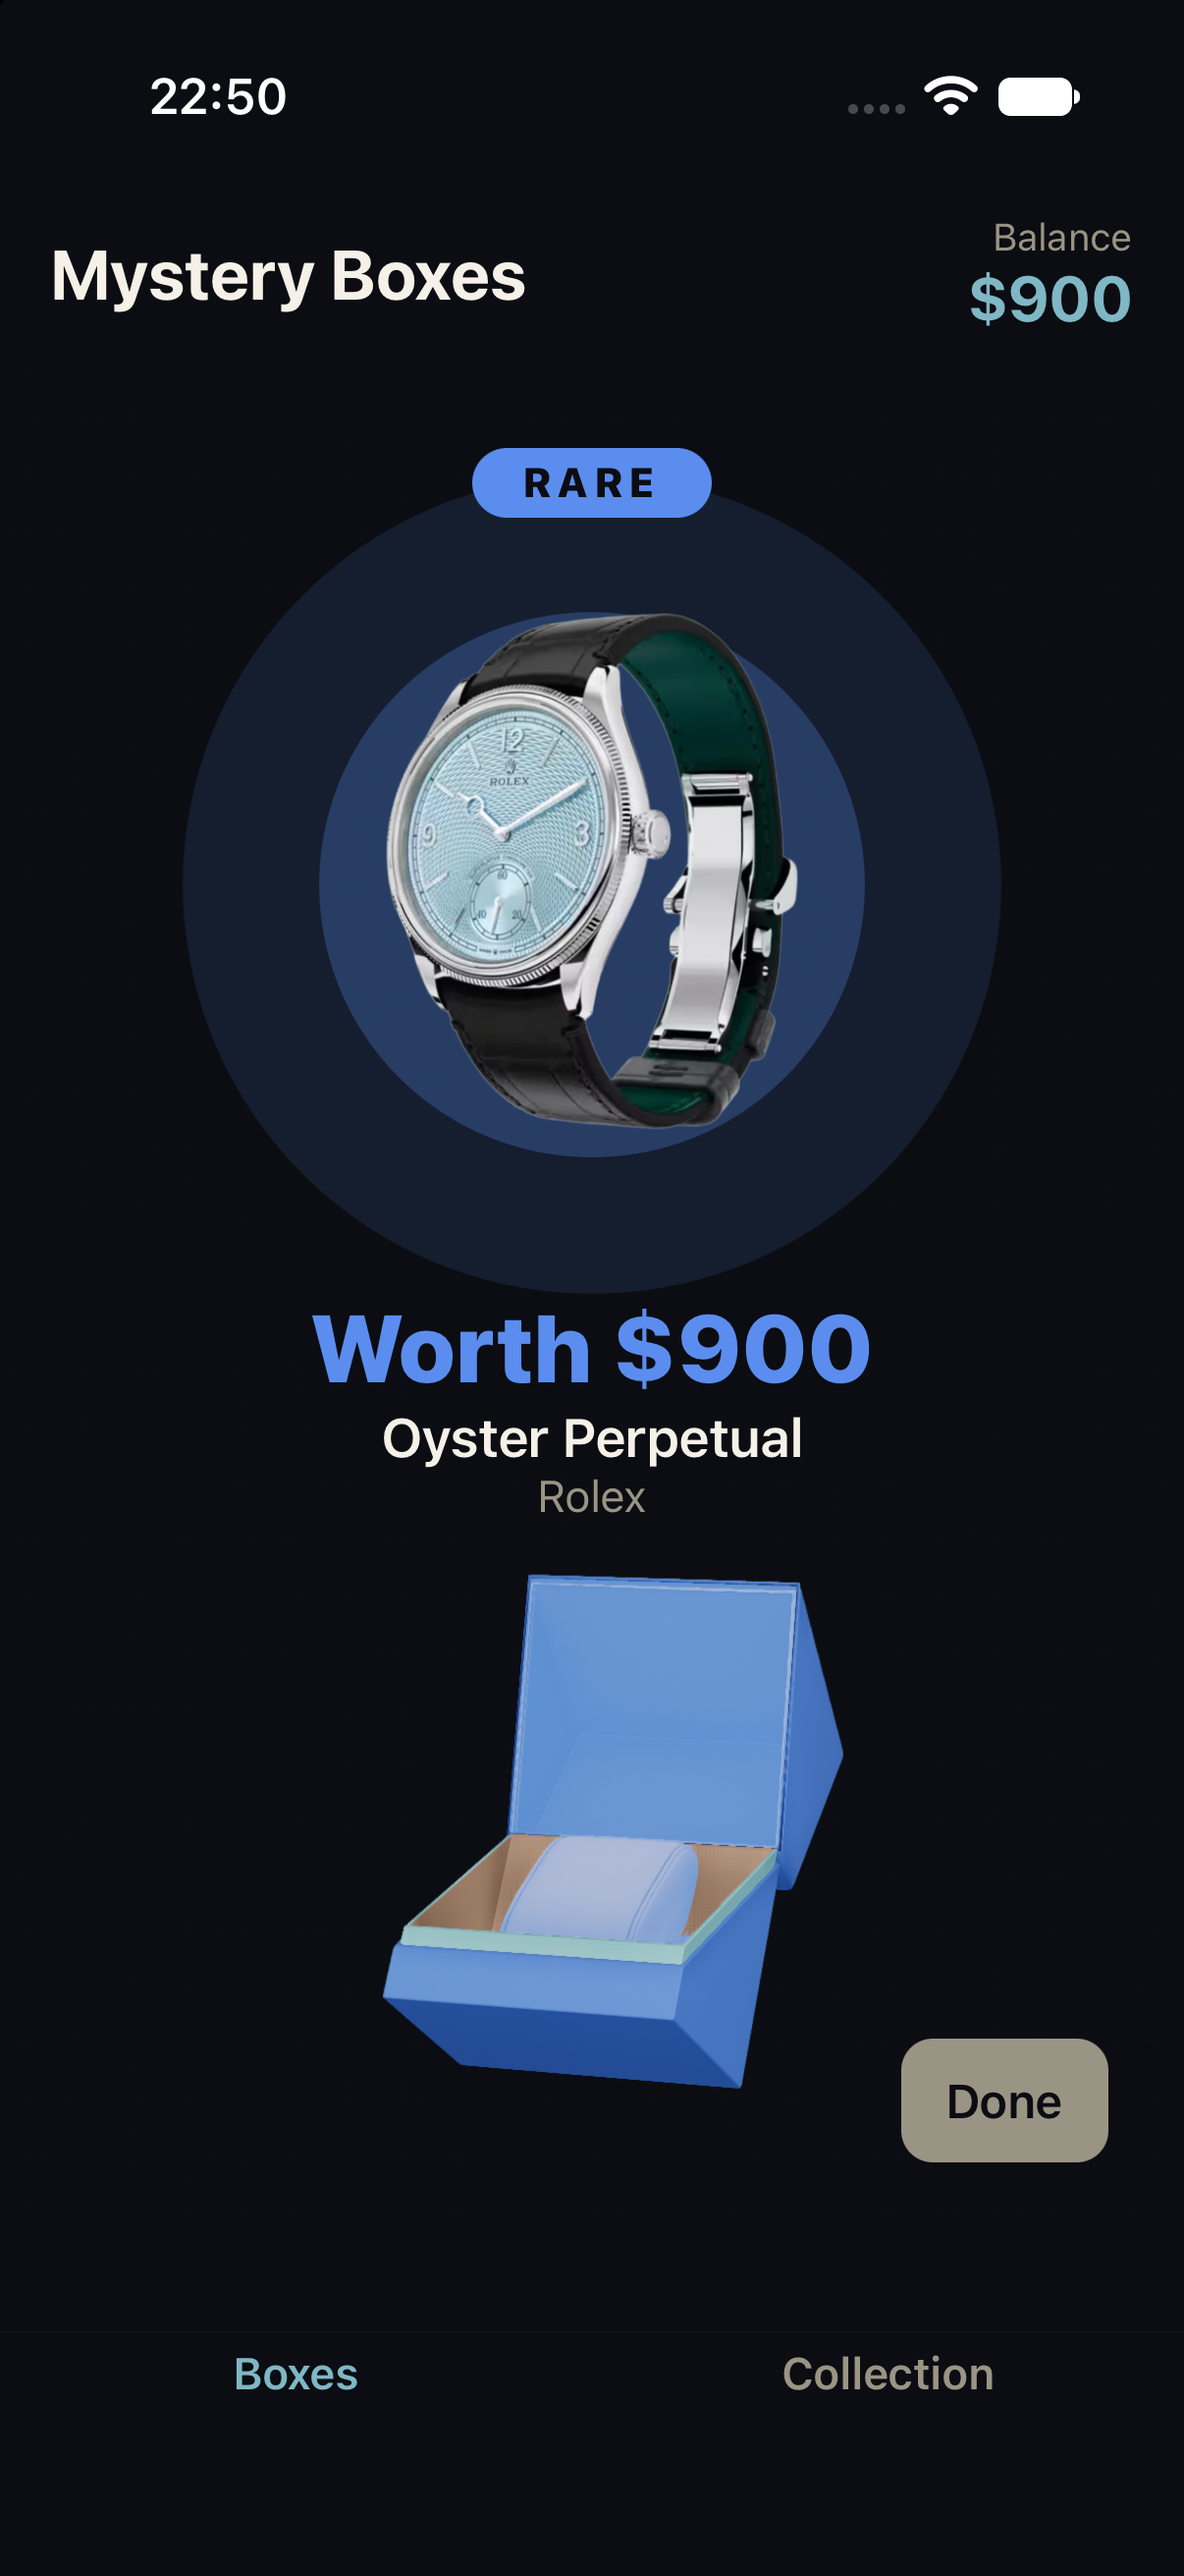
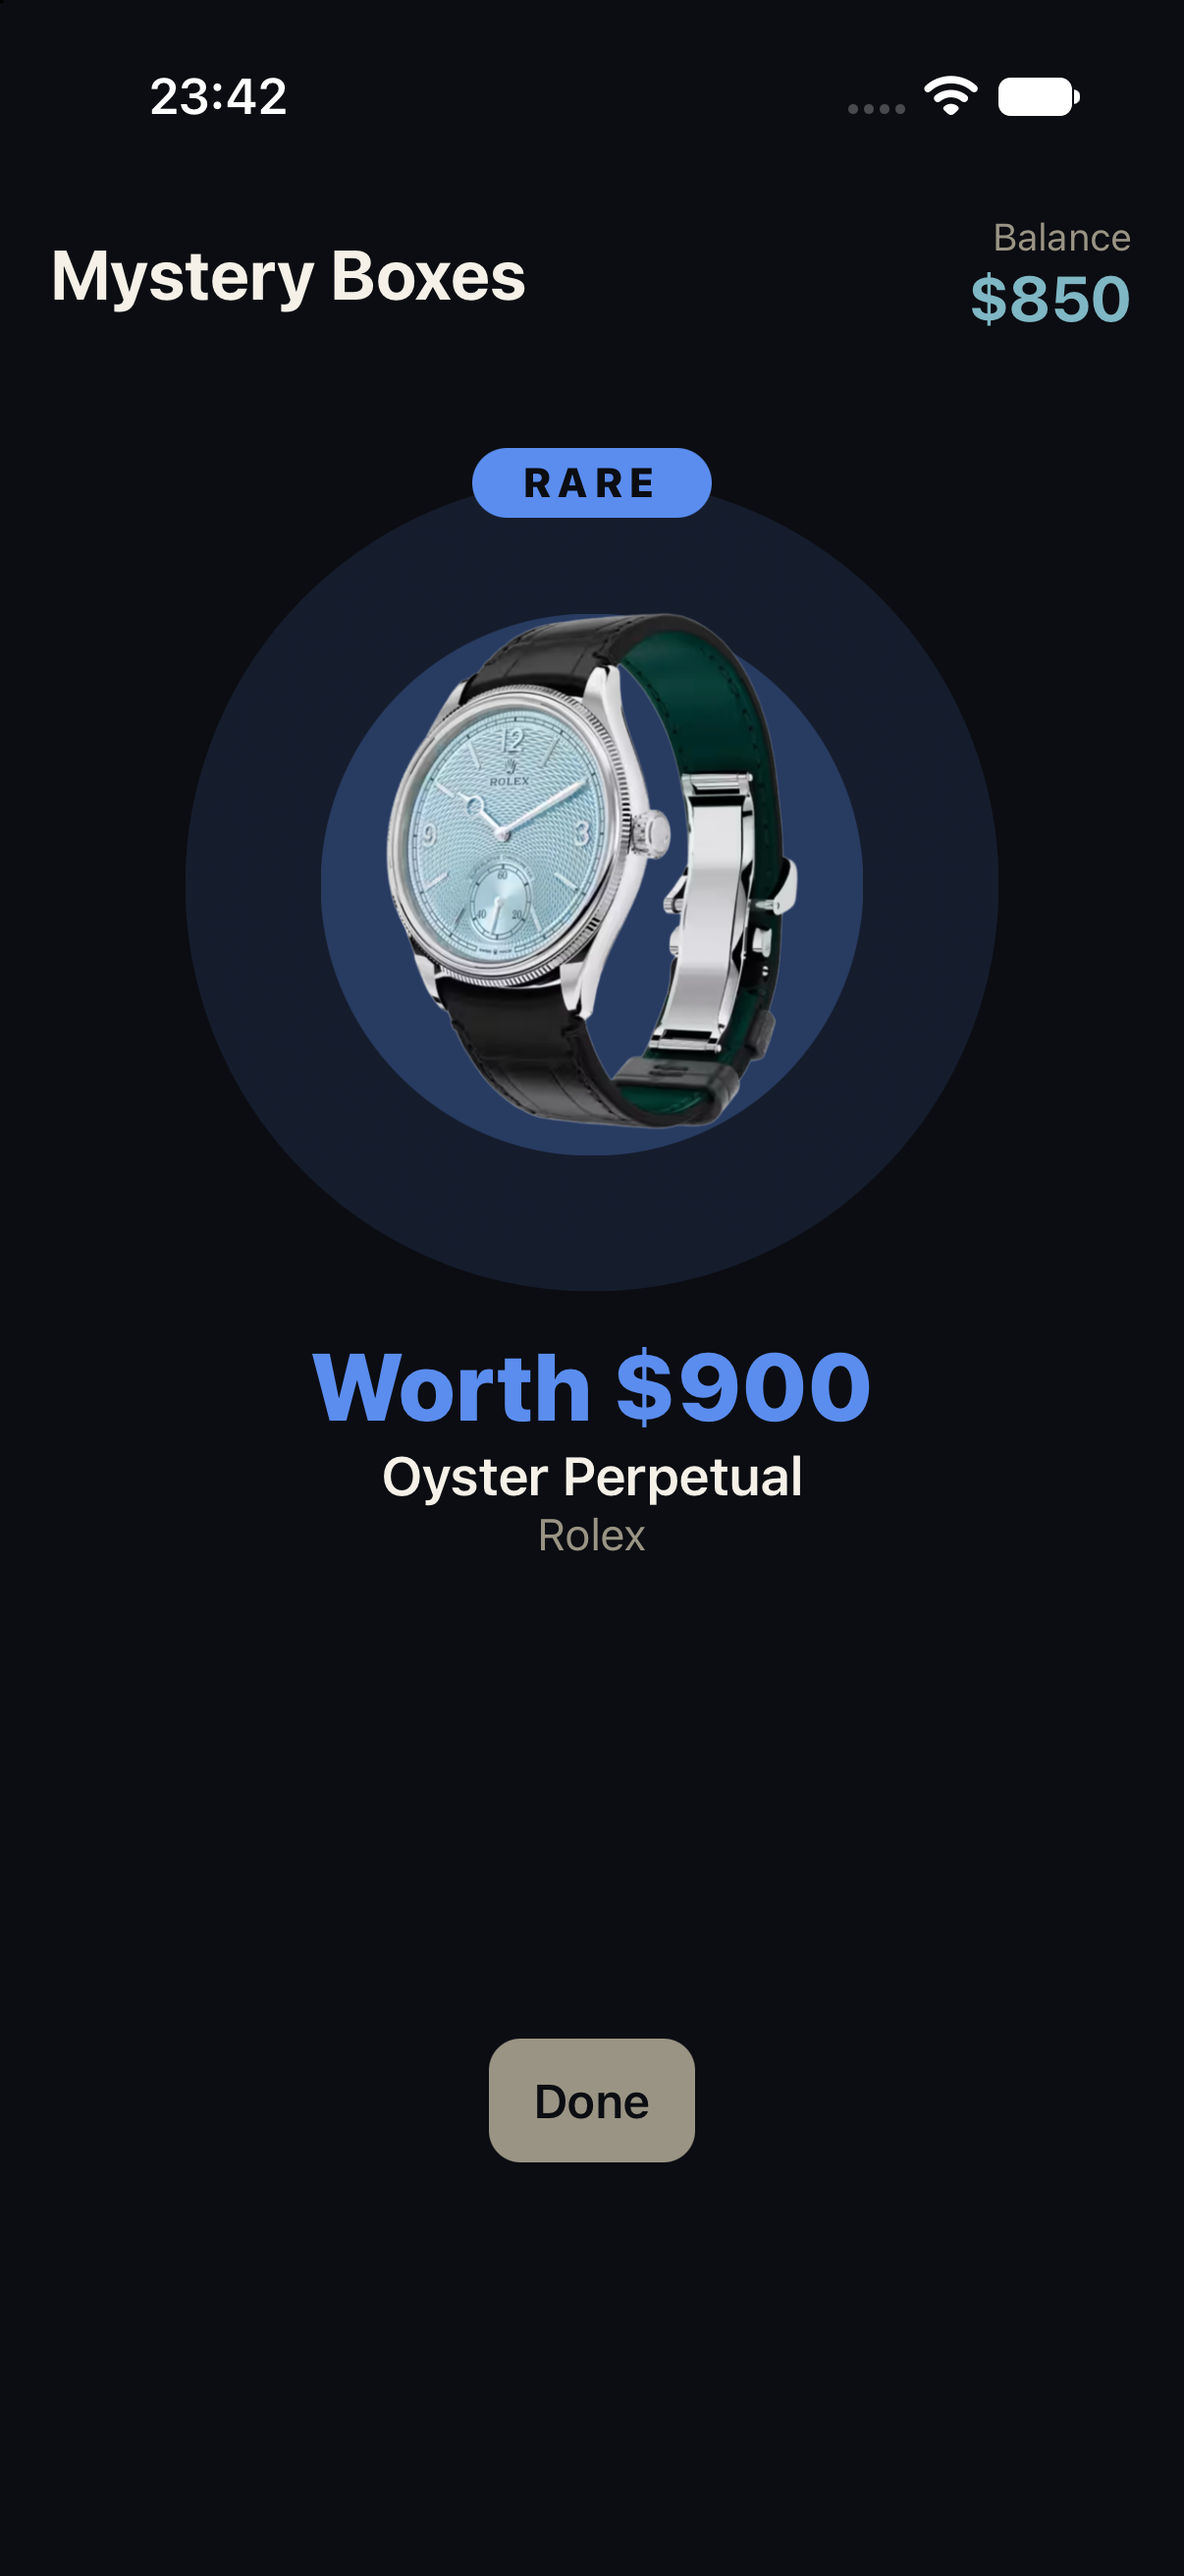
docs: document the centred box name, the hidden tab bar and Done after the box is put away

diff --git a/docs/ANIMATIONS.md b/docs/ANIMATIONS.md
@@ -104,6 +104,10 @@ Tapping a card sends its box to the middle in 500 ms. It also moves towards the 
 
 - **Where:** `openingFlow/_facadesLogic/computeOpeningPose.ts`, `openingSceneState.ts`, `openingEasing.ts` (`easeInOutCubic`, `easeOutBack`). Values: `openingConfig.ts` (`FOCUS_DURATION_MILLISECONDS`, `DOLLY_DEPTH_UNITS`).
 
+While a box is inspected the **Back** button sits in the top left corner and the box name and price are centred on the screen below it, in line with the button at the bottom.
+
+![](media/animations/02-inspect-header.png)
+
 ### Gestures on the focused box
 
 | Gesture | What happens | Values |
@@ -152,9 +156,11 @@ The prize is revealed on a clean stage. From the top: a **rarity pill**, the **w
 | Extra haptic taps | 0 | 1 | 2 | 3 |
 | Sound | short chime | rising triad | rising triad (same as Rare) | full fanfare |
 
-| Common | Rare | Legendary |
+| Common | Rare (current layout, no tab bar) | Legendary |
 |---|---|---|
 | ![](media/animations/05-reveal-common.png) | ![](media/animations/05-reveal-rare.png) | ![](media/animations/06-reveal-legendary-swipe.png) |
+
+The Common and Legendary pictures were taken before the tab bar was hidden during a reveal; everything else on them is current.
 
 What happens, in order:
 
@@ -162,13 +168,13 @@ What happens, in order:
 2. The **watch** rises out of the box and flips like a coin (a flat `scaleX` flip with a spring, so it settles with a small bounce).
 3. The two **circles** behind the watch pulse softly and without end (inner 22 to 42 % opacity, outer 10 to 20 %).
 4. The **price, name and brand** fade in from below after 450 ms.
-5. After 1.8 s the **opened box is put away**: it shrinks to nothing and sinks a little in 700 ms, so the prize and the Done button are alone on the screen. Pressing Done (or Back) at any moment brings the box back smoothly and flies it home.
+5. After 1.8 s the **opened box is put away**: it shrinks to nothing and sinks a little in 700 ms. Only then does the **Done** button appear, centred at the bottom, so the prize is alone on the screen. While a prize is shown the bottom tab bar (Boxes / Collection) is invisible and cannot be tapped; its place is kept so the 3D scene does not move. Done brings the tab bar back and flies the box home.
 
 | Still open, just revealed | Put away |
 |---|---|
 | ![](media/animations/06-legendary-box-still-open.png) | ![](media/animations/06-reveal-legendary-swipe.png) |
 
-- **Where:** `openingFlow/screens/OpeningOverlay/` (`OpeningOverlay.tsx` and the `RevealEffects`, `WatchRevealImage`, `Particle` parts, each with its hook in `_facades/`), `openingFlow/_config/rarityConfig.ts` (the table above), `getWatchRarity.ts`, `computeParticleTrajectory.ts`, `computeOpeningPose.ts` (`tuckProgress`), `openingSceneState.ts` (`startTuck`).
+- **Where:** the tab bar is hidden through the `isTabBarHidden` route parameter set by `useCatalogueFacade` and read in `TabNavigator.tsx`. Also: `openingFlow/screens/OpeningOverlay/` (`OpeningOverlay.tsx` and the `RevealEffects`, `WatchRevealImage`, `Particle` parts, each with its hook in `_facades/`), `openingFlow/_config/rarityConfig.ts` (the table above), `getWatchRarity.ts`, `computeParticleTrajectory.ts`, `computeOpeningPose.ts` (`tuckProgress`), `openingSceneState.ts` (`startTuck`).
 - **Two design decisions worth knowing:**
   - The watch flips **flat**, not in 3D. A 3D-turned layer slides behind the glow circles for a moment, and half of the watch looked washed out.
   - The flash and the particles are drawn **under** the watch and its texts, so nothing ever covers the watch.

diff --git a/docs/TEST_CHECKLIST.md b/docs/TEST_CHECKLIST.md
@@ -60,7 +60,7 @@ Details of every animation: [ANIMATIONS.md](ANIMATIONS.md). "—" means not run 
 | A7 | Reveal Common | Grey pill, grey circles, price, name, brand; nothing over the watch | ✅ | ✅ |
 | A8 | Reveal Rare / Epic | Blue / purple pill and circles, particles; Epic with a flash | — | ✅ Rare, ✅ Epic (earlier layout) |
 | A9 | Reveal Legendary (5th purchase, Classic box) | Gold pill and circles, flash, 28 particles, price in gold | — | ✅ |
-| A10 | After the reveal | Box waits 1.8 s, shrinks away; Done stays centred at the bottom | ✅ | ✅ |
+| A10 | After the reveal | Box waits 1.8 s, shrinks away; only then Done appears, centred at the bottom; the tab bar is invisible while the prize is shown and back after Done | ✅ (Done, put away; tab bar not re-checked) | ✅ |
 | A10a | Done after the box is put away | The box is back in its card, closed, normal size, texts in place | ✅ | ✅ |
 | A10b | Done in the middle of putting the box away, then select another box at once | The new box opens in inspect mode at normal size (no late timer shrinks it) | ✅ | ✅ |
 | A11 | Collection and detail sheet | Rows slide in; detail sheet with a rarity-coloured border; total value counts up | — | ✅ |
